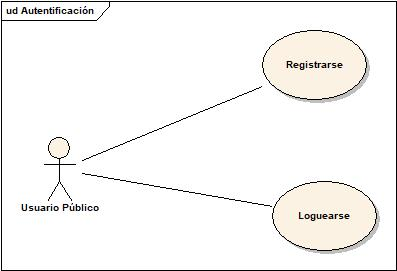
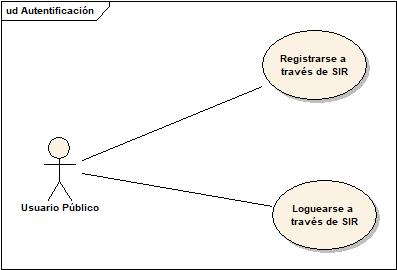
Revisión de documentación

diff --git a/arquitectura_semantica/analisis_funcional/Requisitos/Requisitos funcionales.md b/arquitectura_semantica/analisis_funcional/Requisitos/Requisitos funcionales.md
@@ -10,12 +10,12 @@
 
 | Código | Requisito                                                    | Prioridad |
 | ------ | ------------------------------------------------------------ | --------- |
-|        | La aplicación ASIO ofrecerá un enlace para acceder a través de el sistema SIR, de forma que al acceder mediante este sistema pueda volver a la aplicación de forma automática. |           |
-|        | Para que un nuevo usuario, de tipo diferente a profesor PDI, pueda acceder a la parte privada de la aplicación, un usuario administrador deberá dar de alta a este nuevo usuario usando su identificador único, email. |           |
-|        | Un usuario de tipo profesor PDI podrá registrarse en la aplicación a través de SIR, sin necesidad de estar dado de alta en la aplicación. |           |
-|        | Un usuario podrá acceder a la aplicación a través del sistema SIR (Servicio de Identidad de RedIRIS). |           |
-|        | El sistema SIR devolverá algunos datos del usuario a la aplicación, al menos un identificador para identificar el usuario y actualizarlo, en caso necesario, sus datos en el sistema. |           |
-|        | Al registrarse un usuario, si el sistema SIR devuelve algún dato que permita identificar su rol correspondiente, el sistema le asignará automáticamente ese rol. |           |
+| RF1.1  | La aplicación ASIO ofrecerá un enlace para acceder a través de el sistema SIR, de forma que al acceder mediante este sistema pueda volver a la aplicación de forma automática. |           |
+| RF1.2  | Para que un nuevo usuario, de tipo diferente a profesor PDI, pueda acceder a la parte privada de la aplicación, un usuario administrador deberá dar de alta a este nuevo usuario usando su identificador único, email. |           |
+| RF1.3  | Un usuario de tipo profesor PDI podrá registrarse en la aplicación a través de SIR, sin necesidad de estar dado de alta en la aplicación. |           |
+| RF1.4  | Un usuario podrá acceder a la aplicación a través del sistema SIR (Servicio de Identidad de RedIRIS). |           |
+| RF1.5  | El sistema SIR devolverá algunos datos del usuario a la aplicación, al menos un identificador para identificar el usuario y actualizarlo, en caso necesario, sus datos en el sistema. |           |
+| RF1.6  | Al registrarse un usuario, si el sistema SIR devuelve algún dato que permita identificar su rol correspondiente, el sistema le asignará automáticamente ese rol. |           |
 |        |                                                              |           |
 |        |                                                              |           |
 |        |                                                              |           |
@@ -30,18 +30,18 @@
 
 | Código | Requisito                                                    | Prioridad |
 | ------ | ------------------------------------------------------------ | --------- |
-|        | La aplicación constará de una serie de roles predefinidos:<br />- *Gestor ASIO*: Es el administrador del sistema. Podrá administrar roles y modificar la frecuencia de los procesos automáticos de carga de datos. <br />- *Administrador de universidad*: Podrá crear y modificar ontologías relativas a su universidad y les asignará roles, cargar datos relativos a esa universidad y modificar los roles de los datos<br />- *Investigador de universidad*: Podrá ver los datos asignados a su rol, y los datos de usuario para consultas.<br />- *Usuario para consultas de universidad*: Podrá ver datos asignados a este rol.<br />- *Administrador de Ministerio (ministerio, FECYT agencia de ciencia):* Podrá añadir/borrar consultas SparQL personalizadas para los usuarios de Ministerio.<br />- *Usuario de Ministerio (ministerio, FECYT agencia de ciencia):* Podrá ver los datos asignados a su rol y ejecutar consultas SparQL personalizadas.<br />- *Gobierno regional*: Podrá ver los datos asignados a su rol.<br />- *Agencia Española de investigación*: Podrá ver los datos asignados a su rol. |           |
-|        | Cuando el usuario se registra a través de SIR, si este sistema devuelve su rol y hay una equivalencia con los roles existentes en la aplicación, se le asignará su rol automáticamente. |           |
-|        | Cuando el usuario se registra a través de SIR, si este sistema devuelve su rol y no hay una equivalencia con los roles existentes en la aplicación, se creará su usuario pero sólo podrá acceder al contenido público del portal. |           |
-|        | La aplicación SIR dispondrá de una serie de funcionalidades que se podrán realizar en al aplicación. |           |
-|        | Los usuarios con rol Gestor ASIO podrán asociar funcionalidades a cada rol. |           |
-|        | Una funcionalidad siempre tendrá un rol asignado, nunca podrá existir una funcionalidad sin rol asignado. |           |
-|        | Los usuarios con rol gestor ASIO podrán crear roles mediante una pantalla. |           |
-|        | Los usuarios con rol gestor ASIO podrán modificar roles mediante una pantalla. |           |
-|        | Los usuarios con rol gestor ASIO podrán borrar roles mediante una pantalla. |           |
-|        | Los usuarios con rol gestor ASIO podrán modificar el rol de un usuario haciendo una búsqueda previa de ese usuario en la aplicación web. |           |
-|        | Los usuarios con rol Gestor ASIO podrán configurar en la aplicación web la frecuencia con la que la aplicación lanzará los procesos automáticos para cargar y actualizar los datos. |           |
-|        | Los roles asignados a funcionalidades por defecto en la aplicación y sus funcionalidades son:<br />  - Gestor ASIO: Gestionar la administración de roles y de la aplicación, asignar roles a funcionalidades y configurar frecuencia de procesos automáticos.<br />- Administrador de Ministerios: Crear, modificar y borrar las consultas SPARQL predefinidas para los usuarios de ministerios.<br />- Administrador de universidad: Cargar, modificar y borrar datos relativos a investigaciones a su universidad y asignar roles a los campos de las ontologías de su universidad. |           |
+| RF2.1  | La aplicación constará de una serie de roles predefinidos:<br />- *Gestor ASIO*: Es el administrador del sistema. Podrá administrar roles y modificar la frecuencia de los procesos automáticos de carga de datos. <br />- *Administrador de universidad*: Podrá crear y modificar ontologías relativas a su universidad y les asignará roles, cargar datos relativos a esa universidad y modificar los roles de los datos<br />- *Investigador de universidad*: Podrá ver los datos asignados a su rol, y los datos de usuario para consultas.<br />- *Usuario para consultas de universidad*: Podrá ver datos asignados a este rol.<br />- *Administrador de Ministerio (ministerio, FECYT agencia de ciencia):* Podrá añadir/borrar consultas SparQL personalizadas para los usuarios de Ministerio.<br />- *Usuario de Ministerio (ministerio, FECYT agencia de ciencia):* Podrá ver los datos asignados a su rol y ejecutar consultas SparQL personalizadas.<br />- *Gobierno regional*: Podrá ver los datos asignados a su rol.<br />- *Agencia Española de investigación*: Podrá ver los datos asignados a su rol. |           |
+| RF2.2  | Cuando el usuario se registra a través de SIR, si este sistema devuelve su rol y hay una equivalencia con los roles existentes en la aplicación, se le asignará su rol automáticamente. |           |
+| RF2.3  | Cuando el usuario se registra a través de SIR, si este sistema devuelve su rol y no hay una equivalencia con los roles existentes en la aplicación, se creará su usuario pero sólo podrá acceder al contenido público del portal. |           |
+| RF2.4  | La aplicación SIR dispondrá de una serie de funcionalidades que se podrán realizar en al aplicación. |           |
+| RF2.5  | Los usuarios con rol Gestor ASIO podrán asociar funcionalidades a cada rol. |           |
+| RF2.6  | Una funcionalidad siempre tendrá un rol asignado, nunca podrá existir una funcionalidad sin rol asignado. |           |
+| RF2.7  | Los usuarios con rol gestor ASIO podrán crear roles mediante una pantalla. |           |
+| RF2.8  | Los usuarios con rol gestor ASIO podrán modificar roles mediante una pantalla. |           |
+| RF2.9  | Los usuarios con rol gestor ASIO podrán borrar roles mediante una pantalla. |           |
+| RF2.10 | Los usuarios con rol gestor ASIO podrán modificar el rol de un usuario haciendo una búsqueda previa de ese usuario en la aplicación web. |           |
+| RF2.11 | Los usuarios con rol Gestor ASIO podrán configurar en la aplicación web la frecuencia con la que la aplicación lanzará los procesos automáticos para cargar y actualizar los datos. |           |
+| RF2.12 | Los roles asignados a funcionalidades por defecto en la aplicación y sus funcionalidades son:<br />  - Gestor ASIO: Gestionar la administración de roles y de la aplicación, asignar roles a funcionalidades y configurar frecuencia de procesos automáticos.<br />- Administrador de Ministerios: Crear, modificar y borrar las consultas SPARQL predefinidas para los usuarios de ministerios.<br />- Administrador de universidad: Cargar, modificar y borrar datos relativos a investigaciones a su universidad y asignar roles a los campos de las ontologías de su universidad. |           |
 
 
 
@@ -52,32 +52,34 @@
 
 | Código | Requisito                                                    | Prioridad |
 | ------ | ------------------------------------------------------------ | --------- |
-|        | Se definirá un vocabulario común que pueda ser comprendido tanto por los desarrolladores como los expertos del dominio. |           |
-|        | Al importar los datos de las ontologías por primera vez se guardarán los datos, pero las siguientes veces se actualizarán esos datos. |           |
-|        | Al importar los CVNs por primera vez se guardarán los datos, pero las siguientes veces se actualizarán esos datos. |           |
-|        | Los datos de las ontologías se actualizarán a través de procesos automáticos. |           |
-|        | Los datos de los cvn se actualizarán a través de procesos automáticos. |           |
-|        | Los procesos automáticos tendrán una frecuencia configurable por el usuario con rol administrador de universidad. |           |
-|        | Al crear o modificar ontologías, los campos por defecto tendrán visualización publica, es decir, cualquier usuario, tanto registrados como no registrados, podrán ver los datos de esa ontología. |           |
-|        | Los usuarios con rol administrador de una universidad podrán modificar los roles permitidos para visualizar los campos de una ontología a través de una sección en la aplicación web. |           |
-|        | La aplicación debe de estar preparada para que cada profesor puede disponer de varios currículums. |           |
-|        | Se guardarán CVNs de la Universidad de Murcia, pero el diseño de la aplicación se realizará en base a que se puedan guardar CVNs de todas las universidades. |           |
-|        | Se realizarán actualizaciones increméntales de datos consultando a los distintos SGIs de las universidades que se harán de forma automática. |           |
-|        | Los datos de entrada al *backend SGI* podrán ser tomados de varias fuentes que pueden estar en formatos diferentes a RDF por lo que el sistema contará con una **librería de importación** de datos que convertirá datos de fuentes heterogéneas en RDF. |           |
-|        | Se creará un Gestor de Datos que coordinará la actividad de todos los módulos para poder realizar las funciones principales del Backend SGI. |           |
-|        | El **gestor de datos** será el encargado de subir los datos:<br />       a) Datos no-RDF.<br/>      b) Datos en RDF ya procesados: datos externos o equivalencias semánticas descubiertas. |           |
-|        | El gestor de datos ejecutará la conversión a RDF cuando lo datos subidos no estén en ese formato. |           |
-|        | El gestor de datos deberá ejecutar el descubrimiento de enlaces sobre los datos que suba en RDF ya procesados. |           |
-|        | El gestor de datos deberá publicar los datos.                |           |
-|        | El gestor de datos deberá recoger los metadatos estructurales sobre el proceso de creación del dataset (Entre otros: Origen, Responsable de creación, y pasos seguidos). |           |
-|        | El gestor de datos deberá recoger los metadatos definidos en la Especificación ontologías Hércules de la Infraestructura Ontológica. |           |
-|        | El gestor de datos deberá recoger los metadatos no definidos en la Especificación ontologías Hércules de la Infraestructura Ontológica, por ejemplo metadatos de intereś sólo para la Universidad o metadatos sobre dominios muy concretos. |           |
-|        | El gestor de datos deberá recogerla licencia sobre los datos, usando el Vocabulario Creative Commons. |           |
-|        | El gestor de datos deberá validar los datos convertidos a RDF por él mismo. |           |
-|        | **Generador de URIs:** Existirá un URI Lookup Service (desarrollado en otro proyecto) con interfaz para máquinas (Rest services) para buscar URIs de entidades, a través del contenido de las URIs y a través del contenido de propiedades como rdfs:label o rdfs:comment (Las propiedades a usar serán configurables). |           |
-|        | Al crear un elemento, se buscará su URI y si no existe, se generará una nueva con el generador de URIs. |           |
-|        | **Integración cotínua de las ontologías:** las ontologías serán almacenadas en modo texto en el sistema de control de versiones con el fin de que los creadores de ontologías puedan hacer uso de las prácticas habituales en ingeniería del software para gestión de software mediante control de versiones. |           |
-|        | Estas ontologías, una vez guardadas en el control de versiones, se pasarán a integración contínua para integrarlas en el triple store. |           |
+| RF3.1  | Se definirá un vocabulario común que pueda ser comprendido tanto por los desarrolladores como los expertos del dominio. |           |
+| RF3.2  | Al importar los datos de las ontologías por primera vez se guardarán los datos, pero las siguientes veces se actualizarán esos datos. |           |
+| RF3.3  | Los datasets de la Universidad de Murcia se actualizarán por primera vez a través de ficheros XML. |           |
+| RF3.4  | Al importar los CVNs por primera vez se guardarán los datos, pero las siguientes veces se actualizarán esos datos. |           |
+| RF3.4  | Los datos de las ontologías se actualizarán a través de procesos automáticos. |           |
+| RF3.5  | Los datos de los cvn se actualizarán a través de procesos automáticos. |           |
+| RF3.6  | Los datos de los CVNs de la Universidad de Murcia se obtendrán a través de servicios implementados con protocolo OAI-PMH. |           |
+| RF3.7  | Los procesos automáticos tendrán una frecuencia configurable por el usuario con rol administrador de universidad. |           |
+| RF3.8  | Al crear o modificar ontologías, los campos por defecto tendrán visualización publica, es decir, cualquier usuario, tanto registrados como no registrados, podrán ver los datos de esa ontología. |           |
+| RF3.9  | Los usuarios con rol administrador de una universidad podrán modificar los roles permitidos para visualizar los campos de una ontología a través de una sección en la aplicación web. |           |
+| RF3.10 | La aplicación debe de estar preparada para que cada profesor puede disponer de varios currículums en formato CVN. |           |
+| RF3.11 | Se guardarán CVNs de la Universidad de Murcia, pero el diseño de la aplicación se realizará en base a que se puedan guardar CVNs de todas las universidades. |           |
+| RF3.12 | Se realizarán actualizaciones increméntales de datos consultando a los distintos SGIs de las universidades que se harán de forma automática. |           |
+| RF3.13 | Los datos de entrada al *backend SGI* podrán ser tomados de varias fuentes que pueden estar en formatos diferentes a RDF por lo que el sistema contará con una **librería de importación** de datos que convertirá datos de fuentes heterogéneas en RDF. |           |
+| RF3.14 | Se creará un Gestor de Datos que coordinará la actividad de todos los módulos para poder realizar las funciones principales del Backend SGI. |           |
+| RF3.15 | El **gestor de datos** será el encargado de subir los datos:<br />       a) Datos no-RDF.<br/>      b) Datos en RDF ya procesados: datos externos o equivalencias semánticas descubiertas. |           |
+| RF3.16 | El gestor de datos ejecutará la conversión a RDF cuando lo datos subidos no estén en ese formato. |           |
+| RF3.17 | El gestor de datos deberá ejecutar el descubrimiento de enlaces sobre los datos que suba en RDF ya procesados. |           |
+| RF3.18 | El gestor de datos deberá publicar los datos.                |           |
+| RF3.19 | El gestor de datos deberá recoger los metadatos estructurales sobre el proceso de creación del dataset (Entre otros: Origen, Responsable de creación, y pasos seguidos). |           |
+| RF3.20 | El gestor de datos deberá recoger los metadatos definidos en la Especificación ontologías Hércules de la Infraestructura Ontológica. |           |
+| RF3.21 | El gestor de datos deberá recoger los metadatos no definidos en la Especificación ontologías Hércules de la Infraestructura Ontológica, por ejemplo metadatos de intereś sólo para la Universidad o metadatos sobre dominios muy concretos. |           |
+| RF3.22 | El gestor de datos deberá recogerla licencia sobre los datos, usando el Vocabulario Creative Commons. |           |
+| RF3.23 | El gestor de datos deberá validar los datos convertidos a RDF por él mismo. |           |
+| RF3.24 | **Generador de URIs:** Existirá un URI Lookup Service (desarrollado en otro proyecto) con interfaz para máquinas (Rest services) para buscar URIs de entidades, a través del contenido de las URIs y a través del contenido de propiedades como rdfs:label o rdfs:comment (Las propiedades a usar serán configurables). |           |
+| RF3.25 | Al crear un elemento, se buscará su URI y si no existe, se generará una nueva con el generador de URIs. |           |
+| RF3.26 | **Integración cotínua de las ontologías:** las ontologías serán almacenadas en modo texto en el sistema de control de versiones con el fin de que los creadores de ontologías puedan hacer uso de las prácticas habituales en ingeniería del software para gestión de software mediante control de versiones. |           |
+| RF3.27 | Estas ontologías, una vez guardadas en el control de versiones, se pasarán a integración contínua para integrarlas en el triple store. |           |
 |        |                                                              |           |
 
 
@@ -88,35 +90,35 @@
 
 | Código | Requisito                                                    | Prioridad |
 | ------ | ------------------------------------------------------------ | --------- |
-|        | La aplicación tendrá una parte pública, los usuarios públicos y todos los usuarios registrados podrán ver estos contenidos públicos. |           |
-|        | La aplicación dispondrá de una pantalla de consultas SPARQL que será visible de forma pública y permitirá escribir en texto libre. |           |
-|        | En la pantalla de consultas SPARQL se propondrán unas consultas predefinidas en función del rol de los usuarios. |           |
-|        | Las consultas predefinidas para los usuarios de ministerios se podrán añadir/borrar mediante una pantalla y un usuario con un rol predeterminado. |           |
-|        | Se facilitará la edición de las consultas predefinidas en la pantalla de consulta SPARQL |           |
-|        | Se harán sugerencias en la pantalla de consulta SPARQL como pueden ser autocomplete de variables, de entidades almacenadas, de prefijos y vocabularios. |           |
-|        | La pantalla de consultas SPARQL mostrará los datos en distintos formatos como timeline, mapa, y gráficos estadísticos. |           |
-|        | La pantalla de consultas SPARQL constará de un asistente de consultas SPARQL. |           |
-|        | Una vez realizada la consulta en la pantalla de consultas SPARQL, se mostrarán los datos visibles para el usuario en función de rol o de si son públicos. |           |
-|        | El resultado de las consultas predefinidas se mostrará en un formato adecuado para estas. |           |
-|        | El resultado de las consultas se podrá descargar en ficheros de distintos formatos (por ejemplo CSV y Json). |           |
-|        | A través del resultado de las consultas se podrá acceder a la versión HTML de los elementos mostrados en ella. |           |
-|        | La aplicación web será capaz de mostrar los metadatos de los datasets a los que se accederá navegando a través de las consultas. |           |
-|        | Si se accede a un elemento, a través de una consulta o de su URL asociada, se mostrarán su información de forma similar a cómo se muestran los datos en wikidata: https://www.wikidata.org/wiki/Q378619 |           |
-|        | En la pantalla de consultas SPARQL, un usuario podrá ver el resultado de las consultas de agregación de los campos que no son visibles para él, por ejemplo, una suma, pero no podrá ver estos datos en detalle. |           |
-|        | Un usuario sólo podrá ver o descargar los datos para los cuales tenga permisos. |           |
-|        | Los usuarios de una universidad, sólo podrán acceder a los datos de esa universidad para los cuales tengan permisos. |           |
-|        | Se podrán descargar los datasets de todas las ontologías de la aplicación a través de la página web. |           |
-|        | Se dispondrá de un servicio donde las máquinas puedan hacer consultas mediante GET/POST, con negociación de contenido: En el caso de que una máquina haga un GET con cabeceras Accept de HTML, esa consulta aparecerá ejecutada en el formulario web y con resultado. Por ejemplo: https://query.wikidata.org/#SELECT%20%2a%0AWHERE%20%7B%0A%20%3Fs%20%3Fp%20%3Fo%0A%7D%0ALIMIT%ste |           |
-|        | El servicio para que las máquinas realicen consultas describirá el endpoint de la manera más rica posible, utilizando vocabularios como VoID y SPARQL Service Description, para que el endpoint sea lo más “descubrible” posible (Aranda 2013). |           |
-|        | Páginas web de documentación: La aplicación web tendrá la opción de ver estadísticas generales sobre los datos. |           |
-|        | Páginas web de documentación: La aplicación web tendrá la opción de mostrar para cada Named Graph, una renderización de sus metadatos: DCAT, VoID,PROV, y cualquier otro metadato destacable. |           |
-|        | Páginas web de documentación: La aplicación web tendrá enlaces a repositorios GitHub (Plataforma Backend SGI, módulos, Test suites, Datasets, especificaciones). |           |
-|        | Páginas web de documentación :La aplicación web tendrá enlaces a validadores y a resultados de validación: validación de datos y validación de principios FAIR (Infraestructura Ontológica). |           |
-|        | Páginas web de documentación: La aplicación web tendrá una lista de los backends SGI en activo |           |
-|        | Páginas web de documentación: Se podrán consultar los datos de contacto en la aplicación web. |           |
-|        | Páginas web de documentación: La aplicación web mostrará la información del contrato de URIs. |           |
-|        | Páginas web de documentación: La aplicación web mostrará información sobre el proyecto Hércules y sus objetivos. |           |
-|        | Cualquier usuario podrá acceder a la información mostrada en las páginas web de documentación. |           |
+| RF4.1  | La aplicación tendrá una parte pública, los usuarios públicos y todos los usuarios registrados podrán ver estos contenidos públicos. |           |
+| RF4.2  | La aplicación dispondrá de una pantalla de consultas SPARQL que será visible de forma pública y permitirá escribir en texto libre. |           |
+| RF4.3  | En la pantalla de consultas SPARQL se propondrán unas consultas predefinidas en función del rol de los usuarios. |           |
+| RF4.4  | Las consultas predefinidas para los usuarios de ministerios se podrán añadir/borrar mediante una pantalla y un usuario con un rol predeterminado. |           |
+| RF4.5  | Se facilitará la edición de las consultas predefinidas en la pantalla de consulta SPARQL |           |
+| RF4.6  | Se harán sugerencias en la pantalla de consulta SPARQL como pueden ser autocomplete de variables, de entidades almacenadas, de prefijos y vocabularios. |           |
+| RF4.7  | La pantalla de consultas SPARQL mostrará los datos en distintos formatos como timeline, mapa, y gráficos estadísticos. |           |
+| RF4.8  | La pantalla de consultas SPARQL constará de un asistente de consultas SPARQL. |           |
+| RF4.9  | Una vez realizada la consulta en la pantalla de consultas SPARQL, se mostrarán los datos visibles para el usuario en función de rol o de si son públicos. |           |
+| RF4.10 | El resultado de las consultas predefinidas se mostrará en un formato adecuado para estas. |           |
+| RF4.11 | El resultado de las consultas se podrá descargar en ficheros de distintos formatos (por ejemplo CSV y Json). |           |
+| RF4.12 | A través del resultado de las consultas se podrá acceder a la versión HTML de los elementos mostrados en ella. |           |
+| RF4.13 | La aplicación web será capaz de mostrar los metadatos de los datasets a los que se accederá navegando a través de las consultas. |           |
+| RF4.14 | Si se accede a un elemento, a través de una consulta o de su URL asociada, se mostrarán su información de forma similar a cómo se muestran los datos en wikidata: https://www.wikidata.org/wiki/Q378619 |           |
+| RF4.15 | En la pantalla de consultas SPARQL, un usuario podrá ver el resultado de las consultas de agregación de los campos que no son visibles para él, por ejemplo, una suma, pero no podrá ver estos datos en detalle. |           |
+| RF4.16 | Un usuario sólo podrá ver o descargar los datos para los cuales tenga permisos. |           |
+| RF4.17 | Los usuarios de una universidad, sólo podrán acceder a los datos de esa universidad para los cuales tengan permisos. |           |
+| RF4.18 | Se podrán descargar los datasets de todas las ontologías de la aplicación a través de la página web. |           |
+| RF4.19 | Se dispondrá de un servicio donde las máquinas puedan hacer consultas mediante GET/POST, con negociación de contenido: En el caso de que una máquina haga un GET con cabeceras Accept de HTML, esa consulta aparecerá ejecutada en el formulario web y con resultado. Por ejemplo: https://query.wikidata.org/#SELECT%20%2a%0AWHERE%20%7B%0A%20%3Fs%20%3Fp%20%3Fo%0A%7D%0ALIMIT%ste |           |
+| RF4.20 | El servicio para que las máquinas realicen consultas describirá el endpoint de la manera más rica posible, utilizando vocabularios como VoID y SPARQL Service Description, para que el endpoint sea lo más “descubrible” posible (Aranda 2013). |           |
+| RF4.21 | Páginas web de documentación: La aplicación web tendrá la opción de ver estadísticas generales sobre los datos. |           |
+| RF4.22 | Páginas web de documentación: La aplicación web tendrá la opción de mostrar para cada Named Graph, una renderización de sus metadatos: DCAT, VoID,PROV, y cualquier otro metadato destacable. |           |
+| RF4.23 | Páginas web de documentación: La aplicación web tendrá enlaces a repositorios GitHub (Plataforma Backend SGI, módulos, Test suites, Datasets, especificaciones). |           |
+| RF4.24 | Páginas web de documentación :La aplicación web tendrá enlaces a validadores y a resultados de validación: validación de datos y validación de principios FAIR (Infraestructura Ontológica). |           |
+| RF4.25 | Páginas web de documentación: La aplicación web tendrá una lista de los backends SGI en activo |           |
+| RF4.26 | Páginas web de documentación: Se podrán consultar los datos de contacto en la aplicación web. |           |
+| RF4.27 | Páginas web de documentación: La aplicación web mostrará la información del contrato de URIs. |           |
+| RF4.28 | Páginas web de documentación: La aplicación web mostrará información sobre el proyecto Hércules y sus objetivos. |           |
+| RF4.29 | Cualquier usuario podrá acceder a la información mostrada en las páginas web de documentación. |           |
 |        |                                                              |           |
 
 
@@ -129,17 +131,17 @@
 
 | Código | Requisito                                                    | Prioridad |
 | ------ | ------------------------------------------------------------ | --------- |
-|        | Los datos dispondrán de un identificador único y persistente |           |
-|        | Los datos deben ser descritos con metadatos descriptivos     |           |
-|        | Los metadatos incluyen clara y explícitamente el identificador de los datos que describen. |           |
-|        | Los metadatos serán accesibles incluso cuando los datos ya no se encuentren disponibles |           |
-|        | Los metadatos serán accesibles incluso cuando los datos ya no se encuentren disponibles |           |
-|        | Los (Meta) datos usan un lenguaje formal, accesible, compartido y ampliamente aplicable para la representación del conocimiento. |           |
-|        | Los (Meta) datos usan vocabularios que siguen los principios FAIR |           |
-|        | Los (Meta) datos incluyen referencias calificadas a otros (Meta) datos. |           |
-|        | Los (meta) datos se publican con una licencia de uso de datos clara y accesible. |           |
-|        | Los (Meta) datos están asociados con información detallada sobre procedencia. |           |
-|        | Los (Meta) datos cumplen con los estándares de la comunidad relevantes para el dominio. |           |
-|        | Las URIs de la ontología deberán respetar el Esquema de URIs Hércules definido en Arquitectura Semántica de Datos del SUE. |           |
+| RF5.1  | Los datos dispondrán de un identificador único y persistente |           |
+| RF5.2  | Los datos deben ser descritos con metadatos descriptivos     |           |
+| RF5.3  | Los metadatos incluyen clara y explícitamente el identificador de los datos que describen. |           |
+| RF5.4  | Los metadatos serán accesibles incluso cuando los datos ya no se encuentren disponibles |           |
+| RF5.5  | Los metadatos serán accesibles incluso cuando los datos ya no se encuentren disponibles |           |
+| RF5.6  | Los (Meta) datos usan un lenguaje formal, accesible, compartido y ampliamente aplicable para la representación del conocimiento. |           |
+| RF5.7  | Los (Meta) datos usan vocabularios que siguen los principios FAIR |           |
+| RF5.8  | Los (Meta) datos incluyen referencias calificadas a otros (Meta) datos. |           |
+| RF5.9  | Los (meta) datos se publican con una licencia de uso de datos clara y accesible. |           |
+| RF5.10 | Los (Meta) datos están asociados con información detallada sobre procedencia. |           |
+| RF5.11 | Los (Meta) datos cumplen con los estándares de la comunidad relevantes para el dominio. |           |
+| RF5.12 | Las URIs de la ontología deberán respetar el Esquema de URIs Hércules definido en Arquitectura Semántica de Datos del SUE. |           |
 |        |                                                              |           |
 

diff --git a/arquitectura_semantica/analisis_funcional/Requisitos/Requisitos no funcionales.md b/arquitectura_semantica/analisis_funcional/Requisitos/Requisitos no funcionales.md
@@ -8,8 +8,8 @@
 
 | Código | Requisito                                                    | Prioridad |
 | ------ | ------------------------------------------------------------ | --------- |
-|        | Se usará el logo y la tipografía de Hercules para crear un diseño a partir de estos datos. |           |
-|        | El interfaz del software debe encajar con el aspecto y grado de accesibilidad y usabilidad del resto de herramientas software desplegadas en el framework de la Universidad de Murcia. |           |
+| RNF1.1 | Se usará el logo y la tipografía de Hercules para crear un diseño a partir de estos datos. |           |
+| RNF1.2 | El interfaz del software debe encajar con el aspecto y grado de accesibilidad y usabilidad del resto de herramientas software desplegadas en el framework de la Universidad de Murcia. |           |
 |        |                                                              |           |
 |        |                                                              |           |
 
@@ -19,8 +19,8 @@
 
 | Código | Requisito                                                    | Prioridad |
 | ------ | ------------------------------------------------------------ | --------- |
-|        | El interfaz de usuario del sistema gestor de datos será lo más usable y ligero posible. |           |
-|        | El interfaz de usuario estará orientado a que los expertos del dominio GI puedan realizar la gestión y publicación de datos. |           |
+| RNF2.1 | El interfaz de usuario del sistema gestor de datos será lo más usable y ligero posible. |           |
+| RNF2.2 | El interfaz de usuario estará orientado a que los expertos del dominio GI puedan realizar la gestión y publicación de datos. |           |
 |        |                                                              |           |
 |        |                                                              |           |
 
@@ -32,8 +32,8 @@
 
 | Código | Requisito                                                    | Prioridad |
 | ------ | ------------------------------------------------------------ | --------- |
-|        | Estabilidad: el desarrollo debe mantenerse estable ante un incremento en el número de usuarios simultáneos |           |
-|        | Escalabilidad de los datos: el sistema debe garantizar que los datos a manejar pueden alcanzar volúmenes importantes y deben ser soportados por la arquitectura prevista. |           |
+| RNF3.1 | Estabilidad: el desarrollo debe mantenerse estable ante un incremento en el número de usuarios simultáneos |           |
+| RNF3.2 | Escalabilidad de los datos: el sistema debe garantizar que los datos a manejar pueden alcanzar volúmenes importantes y deben ser soportados por la arquitectura prevista. |           |
 |        |                                                              |           |
 |        |                                                              |           |
 
@@ -47,11 +47,11 @@
 
 | Código | Requisito                                                    | Prioridad |
 | ------ | ------------------------------------------------------------ | --------- |
-|        | El protocolo a usar será abierto.                            |           |
-|        | El software debe ser compatible con el framework y stack tecnológico de la Universidad de Murcia. |           |
-|        | Se creará un modelo de dominio del Sistema siguiendo el enfoque *Domain Driven Design* para modelar las entidades. |           |
-|        | Se dispondrá de un Triple-store para almacenar y consultar la información de forma semántica. |           |
-|        | El gestor de datos es el encargado de comunicarse con la Triple Store. |           |
+| RNF4.1 | El protocolo a usar será abierto.                            |           |
+| RNF4.2 | El software debe ser compatible con el framework y stack tecnológico de la Universidad de Murcia. |           |
+| RNF4.3 | Se creará un modelo de dominio del Sistema siguiendo el enfoque *Domain Driven Design* para modelar las entidades. |           |
+| RNF4.4 | Se dispondrá de un Triple-store para almacenar y consultar la información de forma semántica. |           |
+| RNF4.5 | El gestor de datos es el encargado de comunicarse con la Triple Store. |           |
 |        |                                                              |           |
 
 
@@ -62,24 +62,24 @@
 
 ## 
 
-| Código | Requisito                                                    | Prioridad |
-| ------ | ------------------------------------------------------------ | --------- |
-|        | El software estará preparado para su recuperación ante fallos de conexión. |           |
-|        | El software estará codificado de manera limpia y clara para garantizar su comprensibilidad. |           |
-|        | Se dotará al producto de la documentación necesaria para facilitar el mantenimiento y actualización. |           |
-|        | El software debe estar preparado para incorporar nuevas fuentes de datos no contempladas en este punto. |           |
-|        | La incorporación de nuevos módulos que permitan la comunicación con otros sistemas debe ser sencilla |           |
-|        | Las páginas web de documentación se intentarán generar de la forma más automática posible. |           |
-|        | Se crearán un Test Suite que consistirá en una serie de peticiones HTTP a ejecutar contra el sistema con una casuística lo más diversa y exhaustiva posible. |           |
-|        | Se crearán y realizarán pruebas de carga(benchmarks)  como peticiones simúltaneas, consultas complejas, etc. |           |
-|        | Se intentarán comprobar los requisitos del sistema en los test. |           |
-|        | Los test se realizarán con los datos de Datasets de referencia Hércules. |           |
-|        | El Test suite ha de ser fácil de modificar y configurar, para que los técnicos de la UM puedan ejecutarlo, añadir tests nuevos o modificar tests existentes con datos y configuraciones nuevas |           |
-|        | El Test Suite constará de documentación para facilitar su extensión y modificación. |           |
-|        | Se pueden usar como referencia para algunos test *Linked Data Platform Test Suite*:<br />- https://github.com/w3c/ldp-testsuite<br />- https://github.com/opendata-euskadi/LinkedDataTestSuite |           |
-|        |                                                              |           |
-|        |                                                              |           |
-|        |                                                              |           |
+| Código  | Requisito                                                    | Prioridad |
+| ------- | ------------------------------------------------------------ | --------- |
+| RNF5.1  | El software estará preparado para su recuperación ante fallos de conexión. |           |
+| RNF5.2  | El software estará codificado de manera limpia y clara para garantizar su comprensibilidad. |           |
+| RNF5.3  | Se dotará al producto de la documentación necesaria para facilitar el mantenimiento y actualización. |           |
+| RNF5.4  | El software debe estar preparado para incorporar nuevas fuentes de datos no contempladas en este punto. |           |
+| RNF5.5  | La incorporación de nuevos módulos que permitan la comunicación con otros sistemas debe ser sencilla |           |
+| RNF5.6  | Las páginas web de documentación se intentarán generar de la forma más automática posible. |           |
+| RNF5.7  | Se crearán un Test Suite que consistirá en una serie de peticiones HTTP a ejecutar contra el sistema con una casuística lo más diversa y exhaustiva posible. |           |
+| RNF5.8  | Se crearán y realizarán pruebas de carga(benchmarks)  como peticiones simúltaneas, consultas complejas, etc. |           |
+| RNF5.9  | Se intentarán comprobar los requisitos del sistema en los test. |           |
+| RNF5.10 | Los test se realizarán con los datos de Datasets de referencia Hércules. |           |
+| RNF5.11 | El Test suite ha de ser fácil de modificar y configurar, para que los técnicos de la UM puedan ejecutarlo, añadir tests nuevos o modificar tests existentes con datos y configuraciones nuevas |           |
+| RNF5.12 | El Test Suite constará de documentación para facilitar su extensión y modificación. |           |
+| RNF5.13 | Se pueden usar como referencia para algunos test *Linked Data Platform Test Suite*:<br />- https://github.com/w3c/ldp-testsuite<br />- https://github.com/opendata-euskadi/LinkedDataTestSuite |           |
+|         |                                                              |           |
+|         |                                                              |           |
+|         |                                                              |           |
 
 
 
@@ -91,13 +91,13 @@
 
 | Código | Requisito                                                    | Prioridad |
 | ------ | ------------------------------------------------------------ | --------- |
-|        | El software debe garantizar el acceso al sistema de las personas autorizadas en cada parte. |           |
-|        | El protocolo permitirá autenticación y autorización.         |           |
-|        | Las páginas web de documentación, serán públicas.            |           |
-|        | El acceso a los datos del triple-store  estará restringido. y solamente se podrá realizar a través del componente  gestor de datos, el cual contiene una gestión de usuarios y control de acceso |           |
-|        | El acceso a los datos del triple-store   solamente se podrá realizar a través del componente  gestor de datos, el cual contiene una gestión de usuarios y control de acceso |           |
-|        | El gestor de datos debe incluir un sistema de permisos con diferentes niveles de acceso a los datos. |           |
-|        | Logging: el software ofrecerá  herramientas para detectar anomalías en el funcionamiento del sistema |           |
+| RNF6.1 | El software debe garantizar el acceso al sistema de las personas autorizadas en cada parte. |           |
+| RNF6.2 | El protocolo permitirá autenticación y autorización.         |           |
+| RNF6.3 | Las páginas web de documentación, serán públicas.            |           |
+| RNF6.4 | El acceso a los datos del triple-store  estará restringido. y solamente se podrá realizar a través del componente  gestor de datos, el cual contiene una gestión de usuarios y control de acceso |           |
+| RNF6.5 | El acceso a los datos del triple-store   solamente se podrá realizar a través del componente  gestor de datos, el cual contiene una gestión de usuarios y control de acceso |           |
+| RNF6.6 | El gestor de datos debe incluir un sistema de permisos con diferentes niveles de acceso a los datos. |           |
+| RNF6.7 | Logging: el software ofrecerá  herramientas para detectar anomalías en el funcionamiento del sistema |           |
 
 
 
